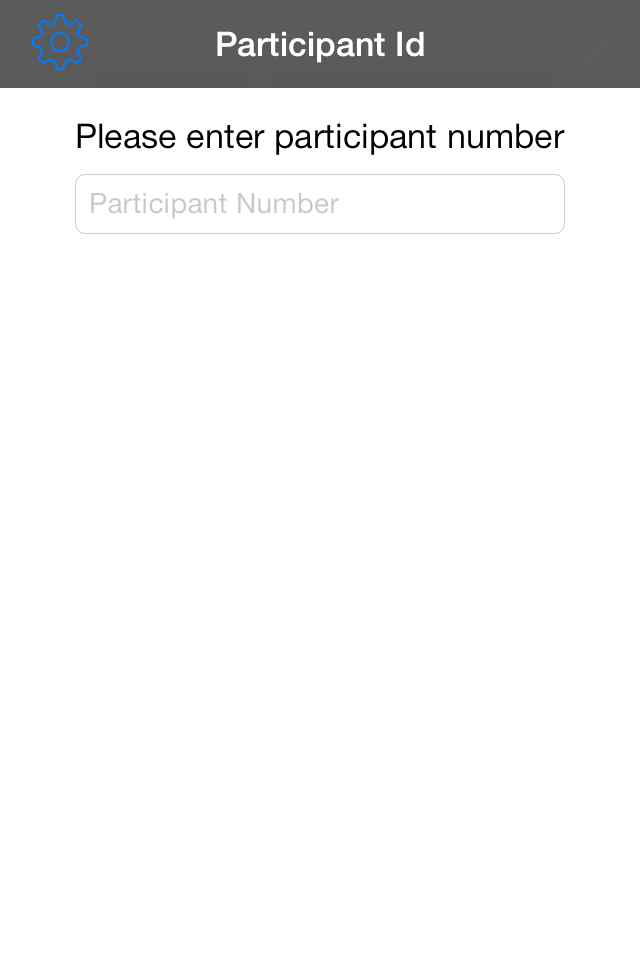
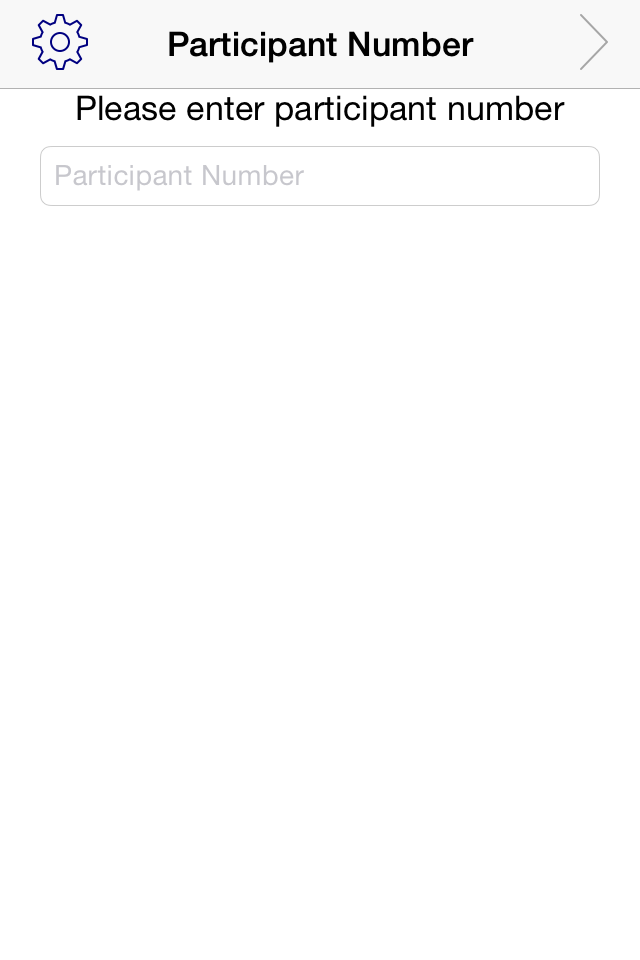
Updated loading screens.  Changed the data types on some event properties.  Added a cast to the recall table view controller to clean up an error.

Changed region(s): [[0.0, 0.0, 1.0, 0.25]]

diff --git a/newVersions/iOS7/TypingTester/TypingTester/ttRecallTableViewController.m b/newVersions/iOS7/TypingTester/TypingTester/ttRecallTableViewController.m
@@ -95,7 +95,7 @@
         static NSString *CellIdentifier = @"RecallCell";
         UITableViewCell *cell = [tableView dequeueReusableCellWithIdentifier:CellIdentifier forIndexPath:indexPath];
         // Configure the cell...
-        NSString *fieldId = [NSString stringWithFormat:@"Field %i", indexPath.row];
+        NSString *fieldId = [NSString stringWithFormat:@"Field %i", (int)indexPath.row];
         ttTextFieldWithName *field = (ttTextFieldWithName*)[cell viewWithTag:1000];
         field.name = fieldId;
         field.delegate = self;

diff --git a/newVersions/iOS7/TypingTester/TypingTester/ttEvent.h b/newVersions/iOS7/TypingTester/TypingTester/ttEvent.h
@@ -21,8 +21,8 @@
 @property (nonatomic, assign) NSTimeInterval interval;
 @property (nonatomic, copy) NSString *targetString;
 @property (nonatomic, copy) NSString *participantNumber;
-@property (nonatomic, assign) int location;
-@property (nonatomic, assign) int length;
+@property (nonatomic, assign) NSInteger location;
+@property (nonatomic, assign) NSUInteger length;
 @property (nonatomic, copy) NSString *enteredCharacters;
 @property (nonatomic, copy) NSString *currentValue;
 @property (nonatomic, assign) CGPoint point;
